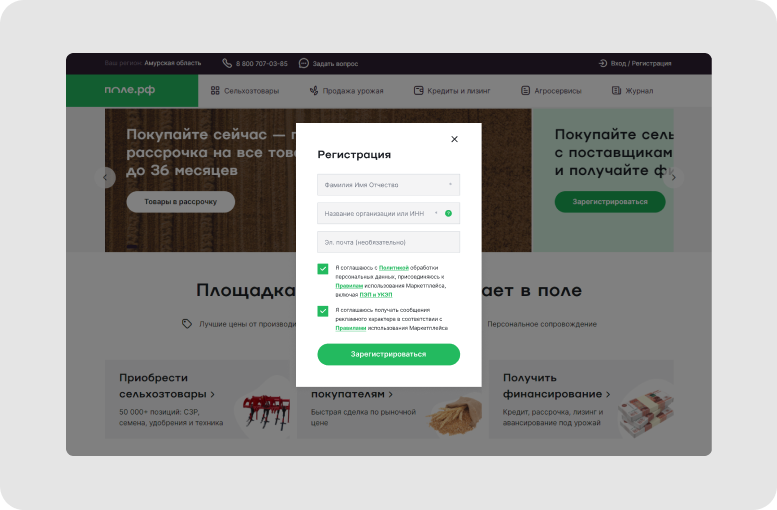
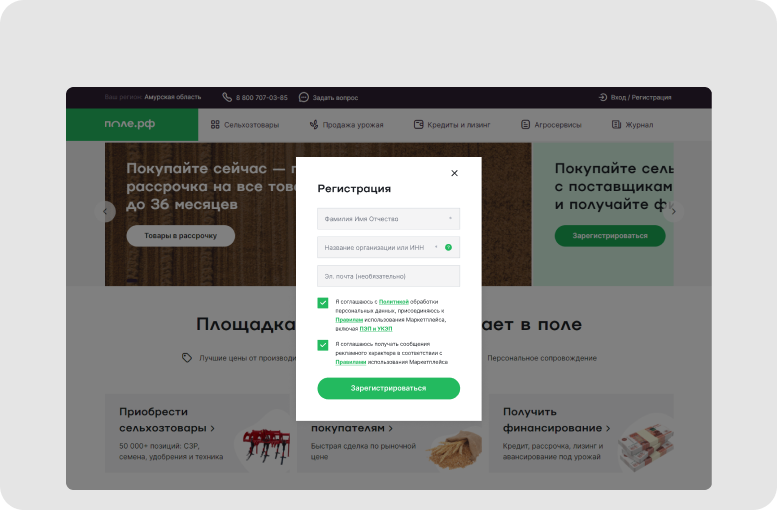
Refresh case-03 registration before desktop image

diff --git a/case-03.html b/case-03.html
@@ -850,7 +850,7 @@
                       id="ba-toggle-reg-panel-before"
                       role="tabpanel"
                       aria-labelledby="ba-toggle-reg-before"
-                      src="./src/assets/img/cases/case-03-reg-before.png?v=2"
+                      src="./src/assets/img/cases/case-03-reg-before.png?v=3"
                       alt="Регистрация до редизайна: модальные окна"
                       width="777"
                       height="510"
